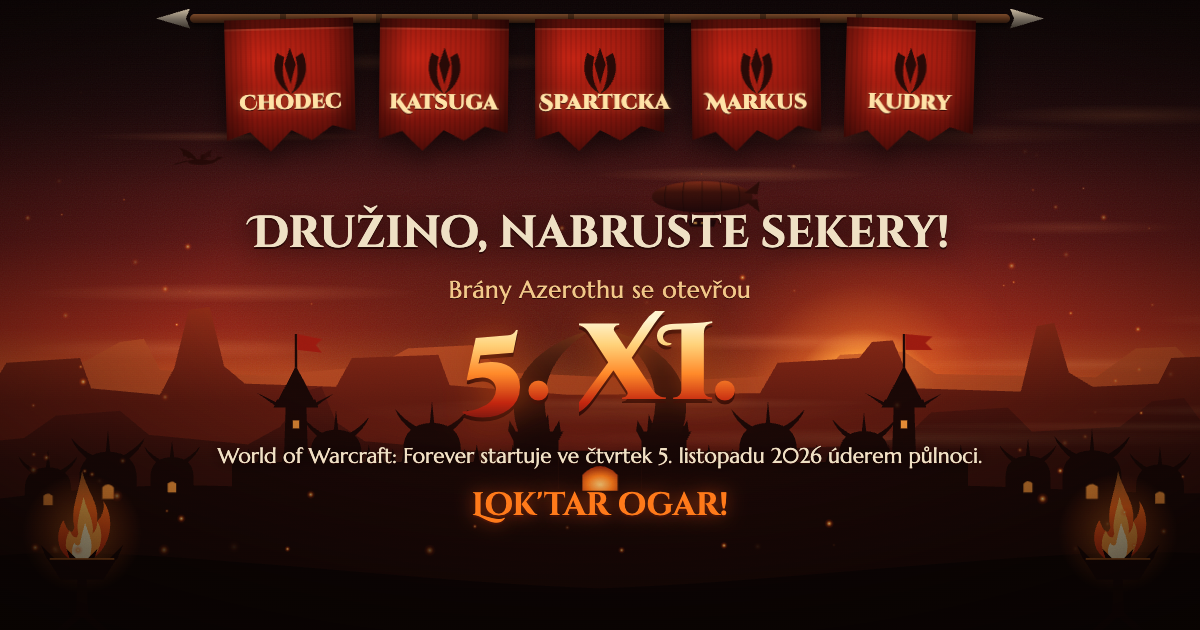
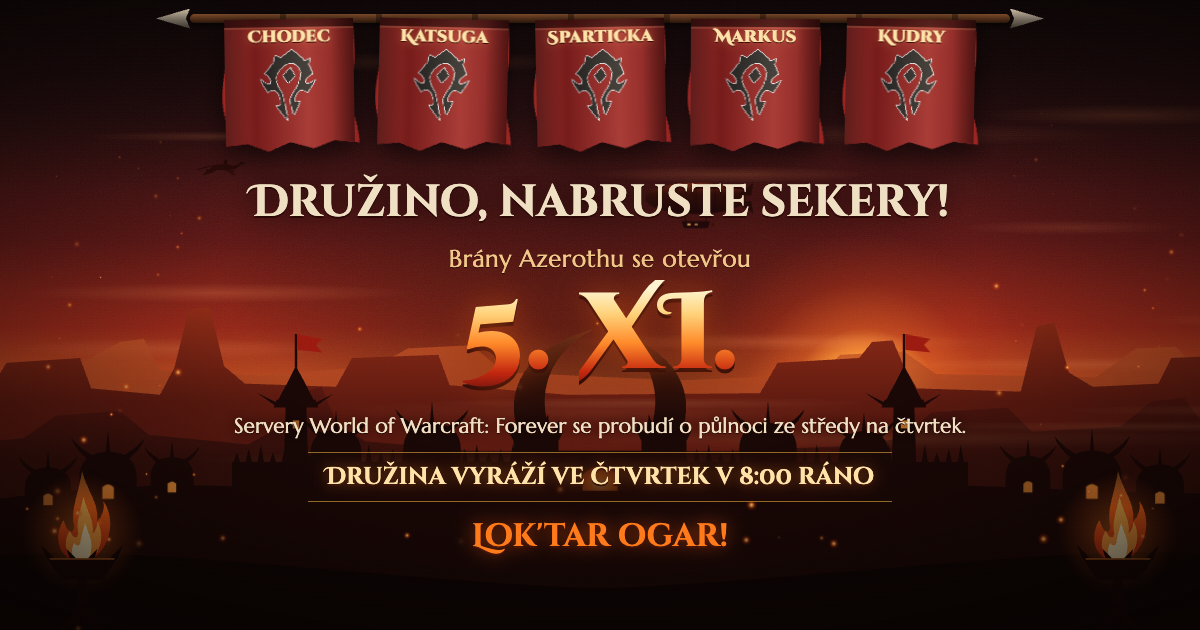
Hordácké prapory, sraz družiny v 8:00 a nové texty

Changed region(s): [[0.185, 0.2714, 0.8017, 0.9048], [0.185, 0.0302, 0.8325, 0.2413]]

diff --git a/index.html b/index.html
@@ -4,11 +4,11 @@
 <meta charset="utf-8">
 <meta name="viewport" content="width=device-width, initial-scale=1, viewport-fit=cover">
 <title>WoW Forever – odpočet</title>
-<meta name="description" content="Odpočet do startu World of Warcraft: Forever – čtvrtek 5. listopadu 2026 o půlnoci.">
+<meta name="description" content="Odpočet do startu World of Warcraft: Forever. Brány se otevřou o půlnoci na čtvrtek 5. listopadu 2026, družina vyráží v 8:00 ráno.">
 <meta name="theme-color" content="#2a0a0c">
 <meta property="og:type" content="website">
 <meta property="og:title" content="Družino, nabruste sekery!">
-<meta property="og:description" content="World of Warcraft: Forever startuje 5. 11. 2026 úderem půlnoci. Družina: Chodec, Katsuga, Sparticka, Markus, Kudry.">
+<meta property="og:description" content="Brány Azerothu se otevřou o půlnoci na čtvrtek 5. 11. 2026. Družina vyráží v 8:00 ráno. Chodec, Katsuga, Sparticka, Markus, Kudry.">
 <meta property="og:image" content="https://digihood.github.io/wow-forever/og.png">
 <meta property="og:image:width" content="1200">
 <meta property="og:image:height" content="630">
@@ -395,6 +395,20 @@
     text-shadow: 0 1px 0 #2a0806, 0 0 14px rgba(0, 0, 0, .8);
   }
 
+  .muster {
+    display: inline-block;
+    margin: clamp(10px, 1.8vh, 16px) 0 0;
+    padding: 8px 18px;
+    border-top: 1px solid rgba(244, 185, 66, .55);
+    border-bottom: 1px solid rgba(244, 185, 66, .55);
+    background: linear-gradient(90deg, transparent, rgba(30, 8, 5, .7) 15%, rgba(30, 8, 5, .7) 85%, transparent);
+    font-family: "Cinzel Decorative", "Cinzel", serif;
+    font-weight: 700;
+    font-size: clamp(17px, 2.1vw, 24px);
+    color: #ffe3a8;
+    text-shadow: 0 0 14px rgba(255, 140, 40, .45), 0 2px 0 #2a0806;
+  }
+
   .cry {
     margin: .4em 0 0;
     font-family: "Cinzel Decorative", "Cinzel", serif;
@@ -455,6 +469,66 @@
     cursor: pointer;
   }
   .radio-close:focus-visible { outline: 2px solid var(--gold); outline-offset: 2px; }
+
+  /* ---------- Horde flag on the banners ---------- */
+
+  .has-flag .crest { display: none; }
+  .has-flag .cloth {
+    container-type: size;
+    background: var(--flag-red);
+    clip-path: polygon(-12% 0, 112% 0, 112% 95%, 84% 92%, 68% 98%, 50% 93%, 33% 100%, 17% 94%, -12% 97%);
+  }
+  .flag-row {
+    --iw: min(100cqw, 90cqh * var(--flag-ratio));
+    --ih: calc(var(--iw) / var(--flag-ratio));
+    position: absolute;
+    left: 0;
+    right: 0;
+    top: calc(var(--i) * 100cqh / var(--rows));
+    height: calc(100cqh / var(--rows) + 1px);
+    background-color: var(--flag-red);
+    background-image: var(--flag-url);
+    background-repeat: no-repeat;
+    background-size: var(--iw) var(--ih);
+    background-position:
+      calc((100cqw - var(--iw)) / 2)
+      calc((100cqh - var(--ih)) / 2 - var(--i) * 100cqh / var(--rows));
+    animation: ripple 2.6s ease-in-out infinite;
+    animation-delay: calc(var(--i) * -.11s);
+  }
+  @keyframes ripple {
+    0%, 100% { transform: translateX(calc(var(--i) / var(--rows) * -5px)); }
+    50% { transform: translateX(calc(var(--i) / var(--rows) * 5px)); }
+  }
+  .has-flag .cloth::after {
+    z-index: 1;
+    background:
+      linear-gradient(180deg, rgba(0, 0, 0, .5) 0 8px, rgba(255, 210, 150, .14) 8px 10px, transparent 10px),
+      linear-gradient(90deg, rgba(0, 0, 0, .35), transparent 18%, transparent 82%, rgba(0, 0, 0, .4)),
+      linear-gradient(90deg, rgba(0, 0, 0, .24), rgba(255, 225, 190, .13) 25%, rgba(0, 0, 0, .18) 50%, rgba(255, 225, 190, .1) 75%, rgba(0, 0, 0, .24));
+    background-size: auto, auto, 160cqw 100%;
+    background-repeat: no-repeat, no-repeat, repeat-x;
+    animation: folds 4.5s linear infinite;
+  }
+  @keyframes folds { to { background-position: 0 0, 0 0, 160cqw 0; } }
+  .has-flag .name {
+    top: 7%;
+    z-index: 2;
+    font-size: clamp(11px, 1.6vw, 17px);
+  }
+
+  @media (max-width: 560px) {
+    .has-flag .banners { padding-bottom: 20px; }
+    .has-flag .name {
+      top: calc(100% + 2px);
+      writing-mode: horizontal-tb;
+      font-family: "Marcellus", Georgia, serif;
+      font-weight: 400;
+      font-size: 13px;
+      letter-spacing: 0;
+      white-space: nowrap;
+    }
+  }
 
   /* ---------- screenshots ---------- */
 
@@ -575,14 +649,15 @@
   .og .music, .og .quest { display: none; }
 
   body.launched .lead,
-  body.launched .countdown { display: none; }
+  body.launched .countdown,
+  body.launched .muster { display: none; }
 
   @media (orientation: portrait) {
     .sun { left: 50%; top: 63%; width: 80vmin; }
   }
 
   @media (prefers-reduced-motion: reduce) {
-    .scene *, .banner { animation: none !important; transition: none !important; }
+    .scene *, .banner, .banner *, .cloth::after { animation: none !important; transition: none !important; }
     .num b.flare { animation: none; }
     .slide { opacity: 1; }
   }
@@ -731,7 +806,7 @@
 
   <section class="call">
     <h1 id="headline">Družino, nabruste sekery!</h1>
-    <p class="lead">Brány Azerothu se otevřou za</p>
+    <p class="lead" id="lead">Brány Azerothu se otevřou za</p>
     <div class="countdown" id="countdown" role="timer">
       <div class="unit"><div class="num" data-unit="d"><b>0</b><b>0</b></div><div class="lbl">dní</div></div>
       <div class="sep" aria-hidden="true"><i></i><i></i></div>
@@ -741,7 +816,8 @@
       <div class="sep" aria-hidden="true"><i></i><i></i></div>
       <div class="unit"><div class="num" data-unit="s"><b>0</b><b>0</b></div><div class="lbl">sekund</div></div>
     </div>
-    <p class="when">World of Warcraft: Forever startuje ve čtvrtek 5.&nbsp;listopadu 2026 úderem půlnoci.</p>
+    <p class="when">Servery World of Warcraft: Forever se probudí o&nbsp;půlnoci ze středy na čtvrtek.</p>
+    <p class="muster">Družina vyráží ve čtvrtek v&nbsp;8:00 ráno</p>
     <p class="cry">Lok'tar ogar!</p>
     <button class="music" id="music" type="button" aria-pressed="false">
       <svg class="off" viewBox="0 0 24 24" aria-hidden="true"><path d="M8 5v14l11-7z"/></svg>
@@ -752,19 +828,20 @@
  </div>
 
   <article class="quest" aria-labelledby="quest-title">
-    <h2 id="quest-title">Válečná noc</h2>
-    <p class="quest-text">Družino! O půlnoci se otevřou brány Azerothu a Horda na opozdilce čekat nebude. Než zazní válečný roh, splňte rozkazy svého náčelníka. Kdo dorazí pozdě, hlídá celou noc kodo.</p>
+    <h2 id="quest-title">Na válečnou stezku</h2>
+    <p class="quest-text">Družino! O půlnoci se otevřou brány Azerothu, ale praví válečníci nejdřív naberou síly. Ve čtvrtek v osm ráno se šikujeme a vyrážíme jako jedna Horda. Než zazní válečný roh, splň rozkazy náčelníka Chodce. Kdo přijde pozdě, celý den hlídá kodo.</p>
     <h3>Cíle úkolu</h3>
     <p class="hint">Splněný cíl si odklikni.</p>
     <ul class="objectives">
-      <li><button type="button" aria-pressed="false"><span class="txt">Předplatné zaplacené, klient stažený</span><span class="cnt">0/1</span></button></li>
+      <li><button type="button" aria-pressed="false"><span class="txt">Předplatné zaplacené, hra stažená a aktualizovaná</span><span class="cnt">0/1</span></button></li>
       <li><button type="button" aria-pressed="false"><span class="txt">Jméno postavy zamluvené dřív, než ho sebere Aliance</span><span class="cnt">0/1</span></button></li>
-      <li><button type="button" aria-pressed="false"><span class="txt">Zásoby na noc: plná lednice a vychlazené energiťáky</span><span class="cnt">0/1</span></button></li>
-      <li><button type="button" aria-pressed="false"><span class="txt">Volno na ráno vyjednané (omluvenka: horečka z Barrens)</span><span class="cnt">0/1</span></button></li>
+      <li><button type="button" aria-pressed="false"><span class="txt">Čtvrtek volný (omluvenka: horečka z Barrens)</span><span class="cnt">0/1</span></button></li>
+      <li><button type="button" aria-pressed="false"><span class="txt">Zásoby na celý den: plná lednice a vychlazené energiťáky</span><span class="cnt">0/1</span></button></li>
+      <li><button type="button" aria-pressed="false"><span class="txt">Budík na 7:30. Kdo zaspí, nese náčelníkovi zavazadla</span><span class="cnt">0/1</span></button></li>
     </ul>
-    <p class="quest-done" id="quest-done" hidden>Úkol splněn. O půlnoci se hlas u náčelníka.</p>
+    <p class="quest-done" id="quest-done" hidden>Úkol splněn. Ve čtvrtek v 8:00 se hlas u náčelníka Chodce.</p>
     <h3>Odměna</h3>
-    <p class="reward">Místo v družině a věčná sláva v Azerothu.</p>
+    <p class="reward">Místo v družině, věčná sláva a první korbel grogu na účet Aliance.</p>
   </article>
 </main>
 
@@ -963,6 +1040,26 @@
     lbl.textContent = plural(value, ...forms[key]);
   };
 
+  // ---------- Horde flag on the banners, rippled row by row ----------
+  const FLAG_ROWS = 32;
+  const flag = new Image();
+  flag.onload = () => {
+    const probe = document.createElement('canvas').getContext('2d', { willReadFrequently: true });
+    probe.canvas.width = probe.canvas.height = 1;
+    probe.drawImage(flag, 8, 8, 1, 1, 0, 0, 1, 1);
+    const [r, g, b] = probe.getImageData(0, 0, 1, 1).data;
+    const root = document.documentElement.style;
+    root.setProperty('--flag-url', `url("${flag.src}")`);
+    root.setProperty('--flag-ratio', (flag.naturalWidth / flag.naturalHeight).toFixed(4));
+    root.setProperty('--flag-red', `rgb(${r} ${g} ${b})`);
+    root.setProperty('--rows', FLAG_ROWS);
+    document.querySelectorAll('.cloth').forEach(cloth => {
+      cloth.innerHTML = Array.from({ length: FLAG_ROWS }, (_, i) => `<i class="flag-row" style="--i:${i}"></i>`).join('');
+    });
+    document.body.classList.add('has-flag');
+  };
+  flag.src = 'horde.jpg';
+
   // ---------- quest objectives (stored per viewer) ----------
   const QUEST_KEY = 'wow-forever-quest';
   const objectives = [...document.querySelectorAll('.objectives button')];
@@ -1113,25 +1210,40 @@
   showShot();
   if (!reduceMotion) setInterval(showShot, 11000);
 
+  // 5. 11. 2026 8:00 SEČ – the warband sets out
+  const MUSTER = Date.UTC(2026, 10, 5, 7, 0, 0);
+  const PHASES = [
+    { until: TARGET, headline: 'Družino, nabruste sekery!', lead: 'Brány Azerothu se otevřou za', title: 'WoW Forever' },
+    { until: MUSTER, headline: 'Brány jsou otevřené!', lead: 'Družina vyráží za', title: 'sraz družiny' },
+  ];
+  const headline = document.getElementById('headline');
+  const lead = document.getElementById('lead');
+
   let timer;
   const tick = () => {
     clearTimeout(timer);
-    const ms = TARGET - (Date.now() + skew);
-    const total = Math.max(0, Math.ceil(ms / 1000));
+    const now = Date.now() + skew;
+    const phase = PHASES.find(p => now < p.until);
+    if (!phase) {
+      document.body.classList.add('launched');
+      headline.textContent = 'Družina je v Azerothu. Lok\u2019tar ogar!';
+      document.title = 'Družina je v Azerothu!';
+      return;
+    }
+    if (headline.textContent !== phase.headline) {
+      headline.textContent = phase.headline;
+      lead.textContent = phase.lead;
+    }
+    const ms = phase.until - now;
+    const total = Math.ceil(ms / 1000);
     const d = Math.floor(total / 86400);
     const h = Math.floor(total % 86400 / 3600);
     const m = Math.floor(total % 3600 / 60);
     const s = total % 60;
     setUnit('d', d); setUnit('h', h); setUnit('m', m); setUnit('s', s);
 
-    if (total === 0) {
-      document.body.classList.add('launched');
-      document.getElementById('headline').textContent = 'Brány jsou otevřené. Do sedel, družino!';
-      document.title = 'WoW Forever běží!';
-      return;
-    }
     const pad = n => String(n).padStart(2, '0');
-    document.title = `${d} d ${pad(h)}:${pad(m)}:${pad(s)} – WoW Forever`;
+    document.title = `${d} d ${pad(h)}:${pad(m)}:${pad(s)} – ${phase.title}`;
     timer = setTimeout(tick, (ms % 1000 || 1000) + 8);
   };
   tick();
